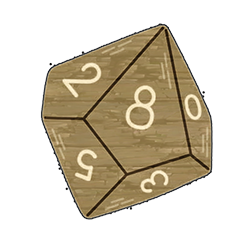
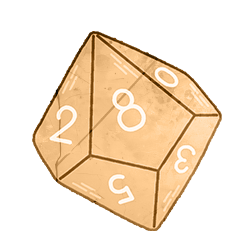
Update
Dice update and landing modal correction

diff --git a/FrontEnd/src/App.css b/FrontEnd/src/App.css
@@ -7,6 +7,9 @@
 
 .backer-overlay {
   background-color: rgba(0, 0, 0, 0.685);
+  backdrop-filter: blur(10px);
+  height: 100%;
+  width: 100%;
 }
 
 .header {
@@ -106,9 +109,9 @@ article img {
 }
 
 .card img {
-  max-width: 50%;
+  max-width: 400px !important;
   margin: 10px;
-  max-height: 400px;
+  max-height: 400px !important;
 }
 
 .btn-foot {
@@ -128,6 +131,7 @@ article img {
   background-position: center;
   background-attachment: fixed;
   background-size: cover;
+  
   margin: 0;
 }
 
@@ -667,7 +671,9 @@ article img {
 .modal {
   position: fixed; /* Stay in place */
   z-index: 5; /* Sit on top */
-  background-color: black;
+  background-color: rgba(0, 0, 0, 0.863);
+  background: url('./assets/images/lonely-noir.png') no-repeat center center fixed;
+  background-size: cover;
   top: 0;
   left: 0;
   width: 100vw; /* Full width */
@@ -675,7 +681,7 @@ article img {
 }
 
 .modal-content {
-  background-color: #000000;
+  background-color: #00000000;
   padding: 0px;
   border: 1px solid #888;
   width: 100%;
@@ -1591,16 +1597,19 @@ h4 {
 .abs {
   position: absolute;
   top: 0;
+  
 }
 
 .rel {
   position: relative;
   width: 100%;
   height: 100%;
+  max-width: 370px !important;
 }
 
 .rel img {
   width: 100%;
+  
 }
 
 .card video {
@@ -1620,6 +1629,8 @@ h4 {
   z-index: 4;
   background-color: rgba(0, 0, 0, 0.685) !important;
 }
+
+
 
 .left,
 .middle,
@@ -1681,8 +1692,13 @@ h4 {
 }
 
 .skew {
-  transform: rotate(-15deg);
+  transform: rotate(-10deg);
   margin-bottom: 15px;
+  border-radius: 6px;
+}
+
+.skew a {
+  text-align: center;
 }
 
 .left img,
@@ -2034,6 +2050,8 @@ h4 {
   width: 100%;
   height: 100%;
 }
+
+
 
 @keyframes floatAlt {
   0% {

diff --git a/FrontEnd/src/index.css b/FrontEnd/src/index.css
@@ -4,6 +4,13 @@
   background-image: url('./assets/news-back.jpg');
   background-position: center;
   background-size: cover;
+  position: fixed;
+  
+  top: 0;
+  left: 0;
+  right: 0;
+  bottom: 0;
+ 
   margin: 0;
   background-color: rgba(28, 28, 28, 0.859);
   z-index: 999;
